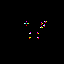
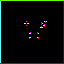
Maze Generation works
Todo: Generate maze based on camera position
Todo: Transform feedback

Changed region(s): [[0.0, 0.0, 1.0, 1.0]]

diff --git a/Solution/Maze.cpp b/Solution/Maze.cpp
@@ -14,19 +14,28 @@ Maze::~Maze()
 	stbi_image_free(imageData);
 }
 
+int Maze::GetHeight()
+{
+	return this->height;
+}
+
+int Maze::GetWidth()
+{
+	return this->width;
+}
+
 // Loading the .bmp file and returning the width,height and pointer to the first pixel in the file.
 void Maze::LoadMaze(const std::string & fileName)
 {
-	int width, height, numComponents;
-	unsigned char* imageData = stbi_load(fileName.c_str(), &width, &height, &numComponents, 3);
+	this->imageData = stbi_load(fileName.c_str(), &this->width, &this->height, &this->numComponents, 3);
 
-	if (imageData == NULL)
+	if (this->imageData == NULL)
 	{
 		std::cerr << "Loading failed for texture: " << fileName << std::endl;
 	}
 
-	glGenTextures(1, &m_texture);
-	glBindTexture(GL_TEXTURE_2D, m_texture);
+	glGenTextures(1, &this->m_texture);
+	glBindTexture(GL_TEXTURE_2D, this->m_texture);
 
 	glTexParameteri(GL_TEXTURE_2D, GL_TEXTURE_WRAP_S, GL_NEAREST);
 	glTexParameteri(GL_TEXTURE_2D, GL_TEXTURE_WRAP_T, GL_NEAREST);
@@ -35,9 +44,7 @@ void Maze::LoadMaze(const std::string & fileName)
 	glTexParameterf(GL_TEXTURE_2D, GL_TEXTURE_MAG_FILTER, GL_LINEAR);
 
 	// Skickar texturen till GPU'n
-	glTexImage2D(GL_TEXTURE_2D, 0, GL_RGB, width, height, 0, GL_RGB, GL_UNSIGNED_BYTE, imageData);
-
-	stbi_image_free(imageData);
+	glTexImage2D(GL_TEXTURE_2D, 0, GL_RGB, this->width, this->height, 0, GL_RGB, GL_UNSIGNED_BYTE, this->imageData);
 }
 
 unsigned char Maze::readPixel(unsigned int x, unsigned int y)
@@ -45,10 +52,11 @@ unsigned char Maze::readPixel(unsigned int x, unsigned int y)
 	return this->imageData[x*y*this->numComponents];
 }
 
-void Maze::Draw(unsigned int width, unsigned int height)
+void Maze::Draw()
 {
-	glDrawArrays(GL_POINTS, 0, width * height);
-	//glDrawElements(GL_POINTS, width* height, GL_UNSIGNED_INT, (void*)0);
+	std::cout << "width: " << this->width << std::endl;
+	std::cout << "height: " << this->height << std::endl;
+	glDrawArrays(GL_POINTS, 0, this->width * this->height);
 }
 
 void Maze::BindTexture(unsigned int textureUnit)

diff --git a/Solution/Maze.h b/Solution/Maze.h
@@ -20,10 +20,13 @@ public:
 	Maze();
 	~Maze();
 
+	int GetHeight();
+	int GetWidth();
+
 
 	void LoadMaze(const std::string& fileName);
 	unsigned char readPixel(unsigned int x, unsigned int y);
-	void Draw(unsigned int width, unsigned int height);
+	void Draw();
 	void BindTexture(unsigned int textureUnit);
 };
 #endif
